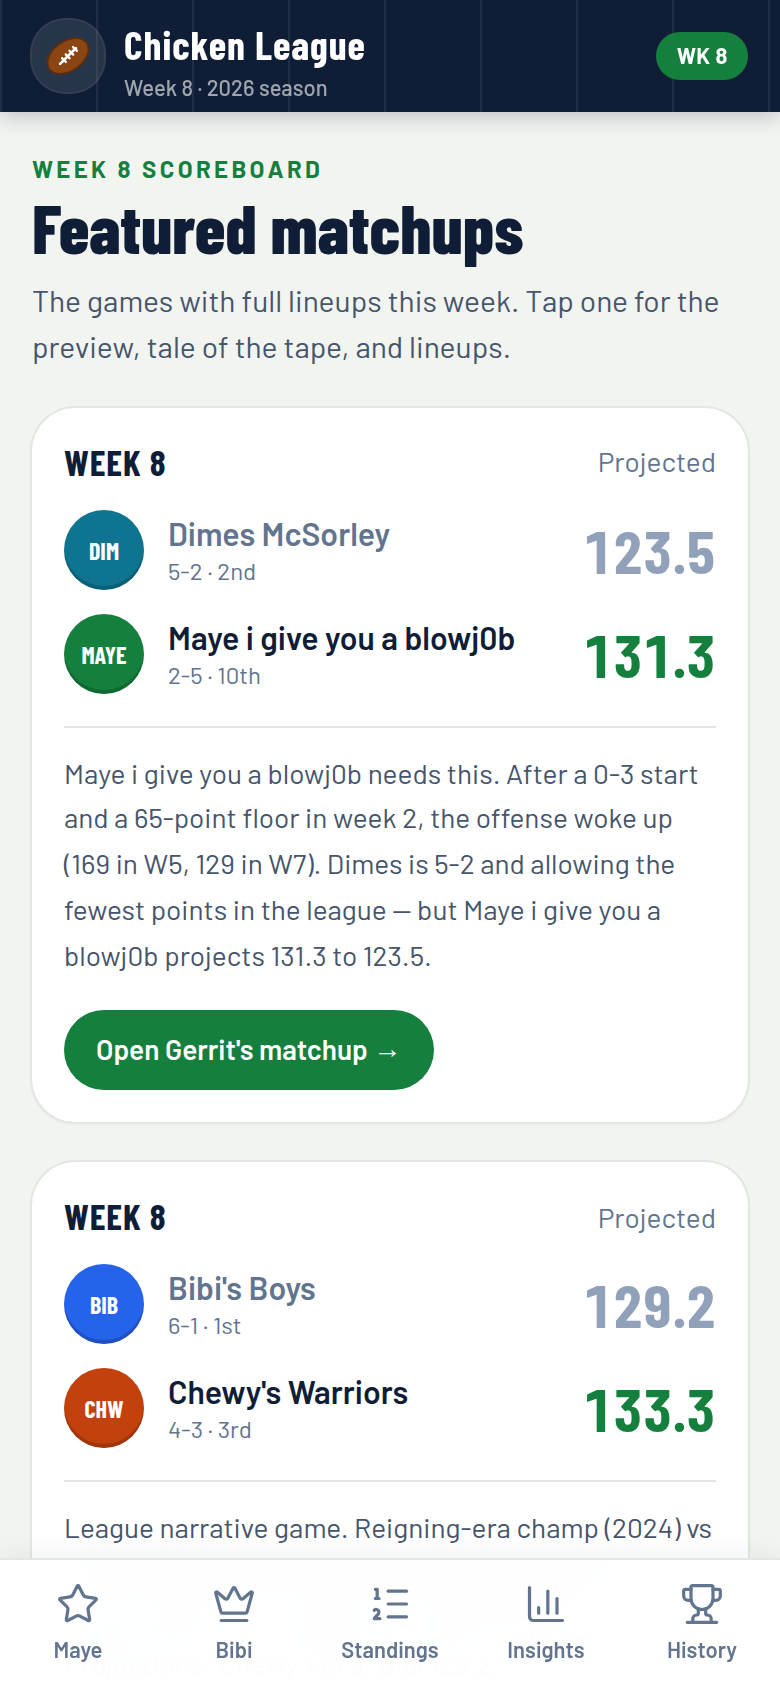
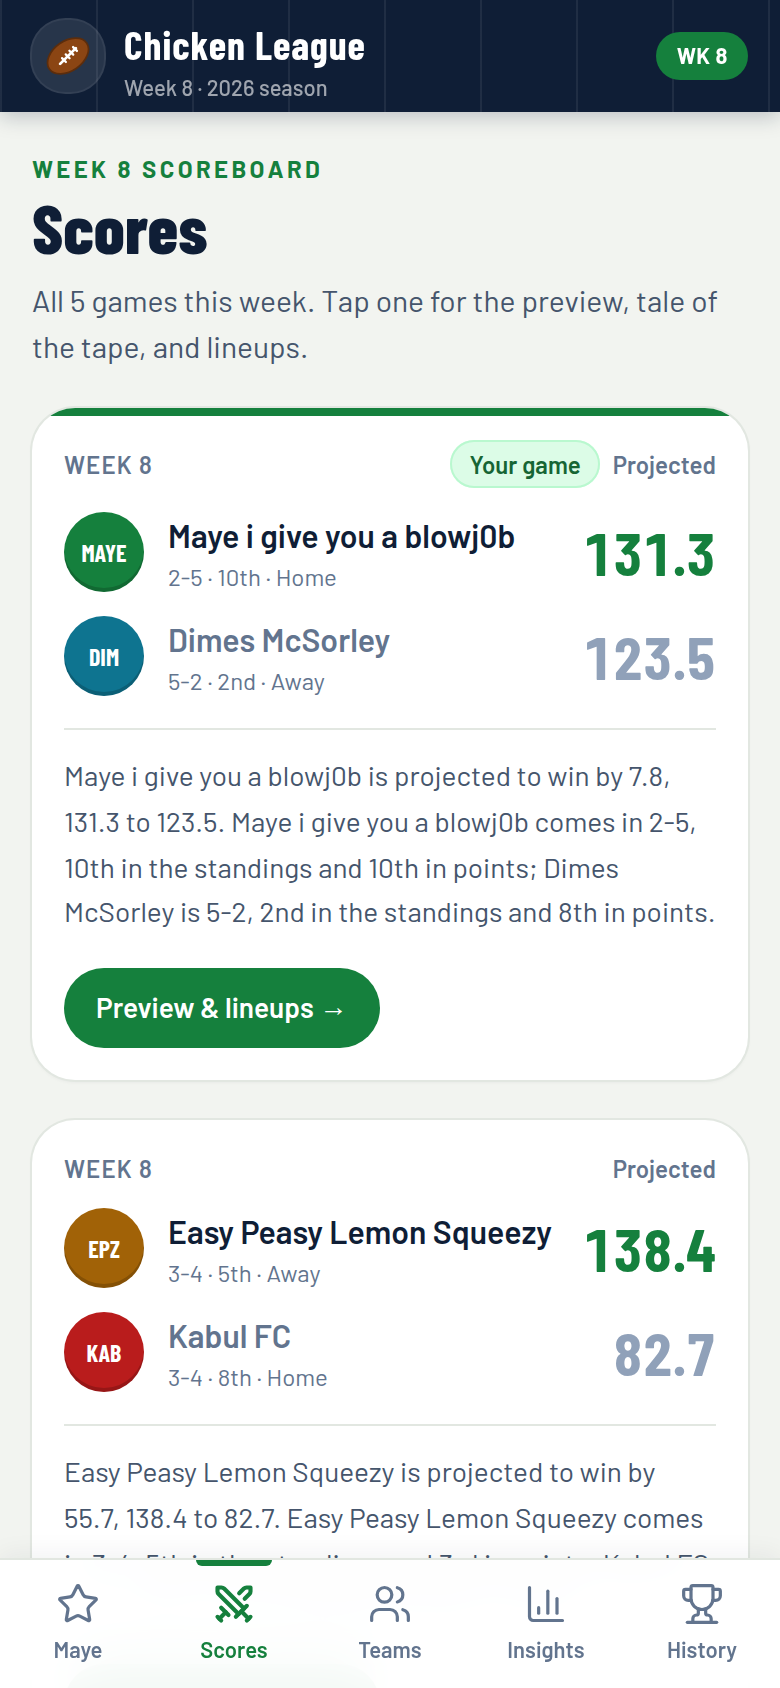
README and screenshots for the all-teams hub

Changed region(s): [[0.0308, 0.1232, 0.9231, 0.6469], [0.0615, 0.6777, 0.9231, 0.9858], [0.7385, 0.3697, 0.9231, 0.4005]]

diff --git a/README.md b/README.md
@@ -2,11 +2,11 @@
 
 **Live:** [https://fantasy-board-demo.vercel.app](https://fantasy-board-demo.vercel.app). Share that link. It's public, needs no login, and works on iPhone.
 
-**Chicken League** is the fantasy football hub for the private ESPN **Chicken** league (2026, week 8). It has matchup previews, standings, power rankings, luck, a record book, and the league's title history. Everything is prerendered from committed JSON, so it deploys to Vercel with **zero secrets**.
+**Chicken League** is the fantasy football hub for the private ESPN **Chicken** league (2026, week 8). Every one of the 10 teams gets a page, all 5 week 8 games get a preview, and the insights and history cover the whole league. Everything is prerendered from one committed JSON file, so it deploys to Vercel with **zero secrets**.
 
-| Gerrit's matchup (`/`) | Insights | History | Standings |
+| Gerrit's matchup (`/`) | Team page | Teams | Insights |
 | --- | --- | --- | --- |
-| ![Maye i give you a blowj0b matchup on iPhone](docs/mobile-home.png) | ![Insights on iPhone](docs/mobile-insights.png) | ![History on iPhone](docs/mobile-history.png) | ![Standings on iPhone](docs/mobile-standings.png) |
+| ![Maye i give you a blowj0b matchup on iPhone](docs/mobile-home.png) | ![Team page on iPhone](docs/mobile-team.png) | ![Teams directory on iPhone](docs/mobile-teams.png) | ![Insights on iPhone](docs/mobile-insights.png) |
 
 ![Maye i give you a blowj0b matchup on desktop](docs/desktop-home.png)
 
@@ -14,42 +14,51 @@
 
 | Route | What it shows |
 | --- | --- |
-| `/` | Gerrit's **Maye i give you a blowj0b** (team 7, shown under its real ESPN name) vs Dimes McSorley. A projected **scorecard** comes first, then the **matchup preview** (story, must-win, key edges, history note) and a **tale of the tape**. The tape compares projection, points for, PF rank, weekly average, last-3 average, best and worst week, weekly swing, points against, and close-game record. Below that are **weekly scoring** (weeks 1–7 plus a dashed week 8 projection, with the opponent overlaid), team story and scouting report, the starters' injury report, head-to-head lineups, and bench/IR. |
-| `/bibis` | Kyle's (KASE) **Bibi's Boys** vs Chewy's Warriors, same layout. |
-| `/standings` | League table with record, PF/PA, differential, PF rank, and a **luck** badge (Lucky / Even / Unlucky). A labelled playoff line sits after seed 8. |
-| `/insights` | League hub with week 8 previews, **storylines** (league pulse), **power rankings**, the **luck meter**, points-for and **toughest-schedule** (points against) bars, and a **record book**. The record book has high scores, closest games, bad beats, and close-game records. Last come **boom or bust** (weekly low/median/high) and team form cards with last-3 averages. |
-| `/history` | The **mid-seed champions** pattern with each champion's seed, a **title timeline** for 2022–2025, the **trophy case** (titles and finals), and **franchise arcs** for Maye i give you a blowj0b, Bibi, Chewy and Dimes with a season-by-season strip. |
-| `/matchups` | "Scores": the featured week 8 games with projections. It's in the desktop nav only. |
+| `/` | Gerrit's **Maye i give you a blowj0b** (team 7) week 8 matchup. It uses the same layout as every `/matchups/[slug]` page. |
+| `/matchups` | **Scores:** all 5 week 8 games with projections and a one-line preview, each linking to its matchup page, plus last week's final scores. |
+| `/matchups/[slug]` | One page per week 8 game: `maye-dim`, `bib-chw`, `epz-kab`, `smf-snd`, `jah-ah`. Each page has: <ul><li>A projected scorecard and a data-generated preview: story, edges for each side, and what's at stake.</li><li>A tale of the tape (projection, points for and rank, power rank, all-play, averages, best and worst week, swing, points against, opponents' average, close games, titles).</li><li>Both teams' weekly scoring, team cards with history, the starters' injury report, head-to-head lineups, and both benches and IR.</li></ul> |
+| `/teams` | Directory of all 10 teams in standings order: record, PF and rank, power rank, luck, week 8 opponent, and recent form. A switch moves between it and `/standings`. |
+| `/teams/[id]` | One page per team. It has: <ul><li>Record, seed, power rank, luck, PF/PA with ranks, all-play record, close-game record, and ESPN's projected finish.</li><li>The week 8 matchup and a weekly score chart against the **league average**.</li><li>A results table with each week's margin over or under the league average.</li><li>Boom or bust, luck and strength of schedule, the injury report, and recent moves.</li><li>The full roster (starters, bench, IR), a trophy case, and a 2020–2025 season-by-season table.</li></ul> |
+| `/standings` | Table with record, PF/PA, differential, PF rank, and a luck badge. Every team links to its page. |
+| `/insights` | League-wide insights over all 10 teams and all 35 games: <ul><li>At-a-glance leaders and the week 8 slate.</li><li>**Power rankings** (by all-play), the **luck meter** (PF rank vs standings, plus wins vs all-play), points for, and **strength of schedule** (opponents' average).</li><li>A record book: **high scores**, **closest games**, **bad beats**, biggest blowouts, the **weekly top scorer**, and close-game records.</li><li>**Consistency** (boom or bust) and a **head-to-head grid**.</li></ul> |
+| `/history` | Champions and runners-up for **2020–2025** (each under its name that season, with the current franchise name), the champion-seed pattern, the trophy case for all 10 franchises, and a finishes-by-season grid. |
+| `/bibis` | Redirects to `/matchups/bib-chw` so old links keep working. |
 | `/live` | The original polling board, which can read a public ESPN league (optional, not in the nav). |
 
-On phones the nav is a five-tab bottom bar (Maye · Bibi · Standings · Insights · History) that respects iPhone safe areas. From `md` up it moves into the navy top bar. On `lg` screens the matchup pages offer **TV mode**, which goes full screen. Layouts are checked for horizontal overflow at 320, 390, and 1440 px.
-
-## Design system
-
-- **Palette:** light field background (`field`), white cards, a navy app bar and scorecard (`navy`), turf green as the primary (`turf`), gold for leaders and champions (`gold`), and red for losses and injuries (`loss`). Each team has its own avatar color. The tokens are in `app/globals.css`, and the team colors are in `lib/intel.ts`.
-- **Type:** Barlow Condensed for scores, headings, and numbers. Barlow for text. Team names are never upper-cased, so the `0` in `blowj0b` stays distinct from an `O`.
-- **Primitives:** `components/league/ui.tsx` holds `Card`, `PageHeader`, `SectionHeading`, `TeamAvatar`, `Pill`, `Stat`, `LuckBadge`, and `ResultChip`. `components/league/trail.tsx` holds `ScoreTrail`, `WeekStrip`, and `MiniTrail`. Every trail shares one y-scale, so they compare directly.
+On phones the nav is a five-tab bottom bar (Maye · Scores · Teams · Insights · History) that respects iPhone safe areas. Standings sits behind Teams. From `md` up the nav moves into the navy top bar and adds Standings. On `lg` screens matchup pages offer **TV mode**. Layouts are checked for horizontal overflow at 320, 390, and 1440 px on every route.
 
 ## Data
 
-Two committed files. Other teams use sanitized display names (keep them that way). Gerrit's team 7 uses its real ESPN name, `Maye i give you a blowj0b`, at the owner's request:
+One committed file, [`data/league-all-teams.json`](data/league-all-teams.json), is the source of truth. It's a Flaim/ESPN pull with all 10 teams, all 35 games from weeks 1–7, week 8 pairings with projections, rosters with injury status, recent transactions, and per-franchise history for 2020–2025.
 
-- [`data/league-snapshot.json`](data/league-snapshot.json) holds the current week's standings, the two featured matchups with starters and bench, and the power list.
-- [`data/league-intel.json`](data/league-intel.json) holds champions, the all-time list, franchise arcs with `weekly2026` scores, the luck index, matchup briefs, league pulse, and week 8 projections.
+Name handling:
 
-How the code uses them:
+- `lib/league.ts` maps the raw file into public types that **drop every `espnName` and `espnAbbrev`**, so pages and the API can only render `displayName` and the app abbreviation.
+- Gerrit's team 7 shows its real ESPN name, `Maye i give you a blowj0b`, at his request. Other teams use their `displayName`, which applies the clean aliases (for example, team 11 is `Kabul FC` / `KAB`).
+- Past-season names use each season's `displayName`.
+- Owner names aren't in the data. The app shows the existing nickname (`ownerLabelFromApp`) only for the four teams that have one.
+- Null fields are hidden rather than filled in.
 
-- `lib/league.ts` types the snapshot and maps each matchup page to its focus team (`BOARDS`).
-- `lib/intel.ts` types the intel and derives the rest: abbreviations and team colors, trail stats (average, median, best, worst, weekly swing), and the de-duplicated game list from the four weekly logs. That game list drives high scores, closest games, bad beats, and close-game records. It also derives the title board, champion seeds, and per-franchise archive hits. Intel's short names, like "Easy Peasy", resolve to snapshot team ids.
-- The record book only covers games that appear in the committed weekly logs (24 of the 35 league games through week 7: every game involving the four tracked franchises), and the page says so.
-- `GET /api/league` returns the snapshot plus `intel`.
-- `GET /api/matchup/golden-goose` and `GET /api/matchup/bibis` return one matchup (the slugs are stable URL ids, not display names) with its `focus` and `opponent` sides. Unknown slugs return `404`.
+How the code uses the data:
 
-To roll to a new week, replace both JSON files and redeploy.
+- `lib/league.ts`: teams, standings, games, week 8 matchups (with slugs), champions, and `publicLeague()` for the API.
+- `lib/stats.ts`: derived stats. These include weekly league averages, all-play records, power rankings, luck (PF rank vs standings, and wins vs all-play), close-game records, high scores, closest games, bad beats, blowouts, weekly leaders, strength of schedule, consistency, the head-to-head map, the title board, and the champion-seed pattern.
+- `lib/preview.ts`: builds each matchup preview from those numbers.
+- History follows the ESPN team slot across seasons. Owners may have changed, and the pages say so. The file doesn't include the playoff team count, so standings draw no cut line.
+- `GET /api/league` returns teams, games, week 8 matchups and champions, with display names only.
+- `GET /api/matchup/:slug` returns one week 8 matchup with its preview. The old `golden-goose` and `bibis` ids still resolve.
+
+To roll to a new week, replace `data/league-all-teams.json` and redeploy.
 
 ### Optional ESPN live path
 
 `/live` and `GET /api/fantasy` keep the original ESPN adapter (`lib/espn.ts`). It defaults to built-in demo data. Set `MOCK_FANTASY=0` with `ESPN_LEAGUE_ID` and `ESPN_TEAM_ID` to read a league that is **viewable to public**. Private leagues need ESPN cookies, which this app never asks for. See `.env.example`. None of this affects the snapshot pages.
+
+## Design system
+
+- **Palette:** light field background (`field`), white cards, a navy app bar and scorecard (`navy`), turf green as the primary (`turf`), gold for leaders and champions (`gold`), and red for losses and injuries (`loss`). Each team has its own avatar color (`lib/league.ts`).
+- **Type:** Barlow Condensed for scores, headings, and numbers. Barlow for text. Team names are never upper-cased, so the `0` in `blowj0b` stays distinct from an `O`.
+- **Primitives:** `components/league/ui.tsx` holds `Card`, `PageHeader`, `SectionHeading`, `TeamAvatar`, `Pill`, `Stat`, `LuckBadge`, `ResultChip`, and `RangeBar`. `components/league/trail.tsx` holds `ScoreTrail` (against an opponent or the league average), `WeekStrip`, and `MiniTrail`. All charts share one y-scale.
 
 ## Run locally
 
@@ -62,7 +71,7 @@ npm run build && npm start
 
 **Production URL:** [https://fantasy-board-demo.vercel.app](https://fantasy-board-demo.vercel.app)
 
-No environment variables are needed. The app is deployed on Vercel under project `fantasy-board-demo` (Hobby team). That project isn't connected to this GitHub repo, so pushes don't redeploy it. Redeploy by uploading a new build (`npx vercel --prod` from a linked checkout). Alternatively, grant the Vercel GitHub app access to `fantasy-board-demo` and link the repo so pushes to `main` redeploy automatically.
+No environment variables are needed. The Vercel project `fantasy-board-demo` isn't connected to this GitHub repo, so pushes don't redeploy it. Redeploy by uploading a new build (`npx vercel --prod` from a linked checkout). Alternatively, grant the Vercel GitHub app access to the repo and link it so pushes to `main` redeploy automatically.
 
 ## Project structure
 
@@ -71,19 +80,19 @@ app/
   layout.tsx                 fonts, metadata, viewport (safe-area aware)
   (league)/layout.tsx        app chrome: navy top bar, bottom tab bar
   (league)/page.tsx          / — Gerrit's matchup (team 7)
-  (league)/bibis/            /bibis — Bibi's Boys matchup
+  (league)/matchups/         /matchups (Scores) and /matchups/[slug]
+  (league)/teams/            /teams and /teams/[id]
   (league)/standings/        /standings
   (league)/insights/         /insights
   (league)/history/          /history
-  (league)/matchups/         /matchups (Scores)
   live/                      optional ESPN polling board
   api/league/                GET /api/league
   api/matchup/[slug]/        GET /api/matchup/:slug
   api/fantasy/               optional ESPN/mock feed for /live
 components/league/           nav, UI primitives, score charts, matchup page, TV mode
-data/league-snapshot.json    week snapshot (lineups, standings)
-data/league-intel.json       league intel (history, weekly scores, luck, briefs, pulse)
-lib/league.ts                snapshot types + helpers
-lib/intel.ts                 intel types + derived stats
+data/league-all-teams.json   the league data (source of truth)
+lib/league.ts                data types, name-safe mapping, lookups
+lib/stats.ts                 derived league stats
+lib/preview.ts               data-generated matchup previews
 lib/espn.ts                  optional public ESPN adapter
 ```
